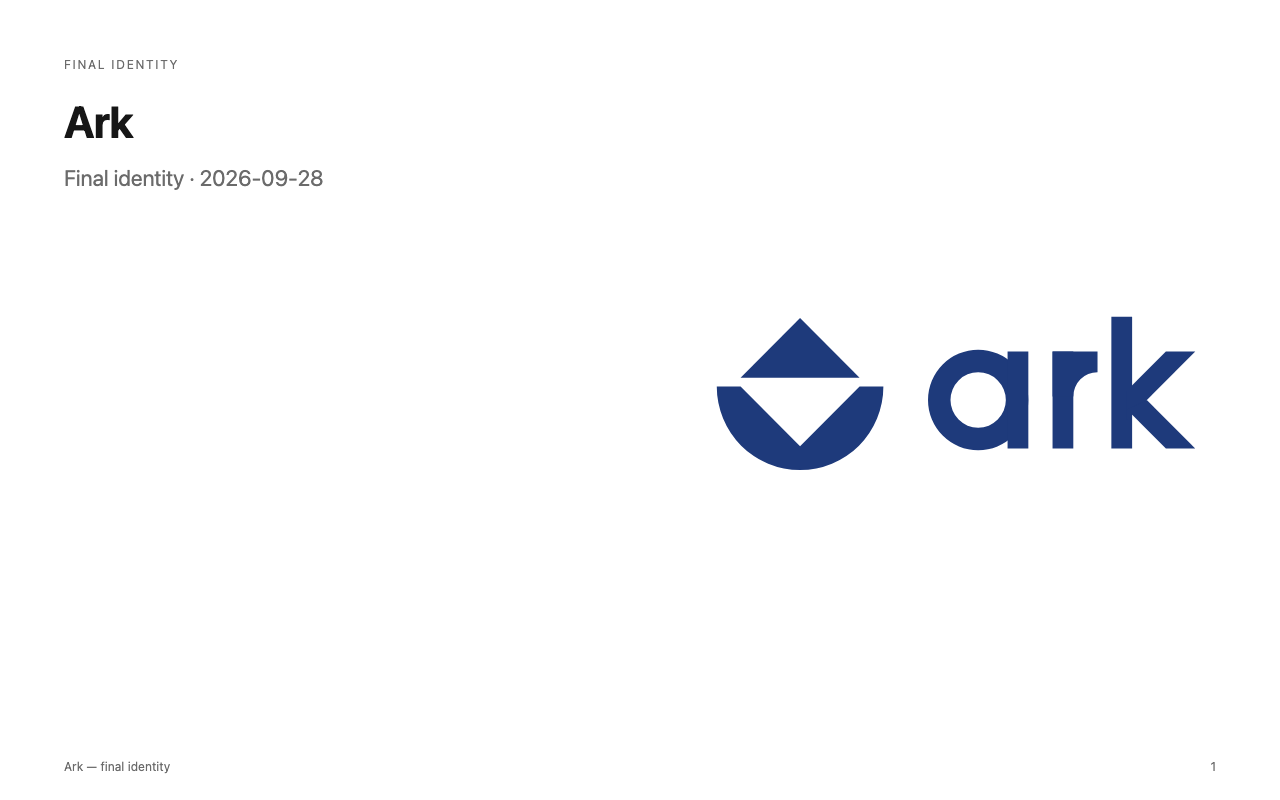
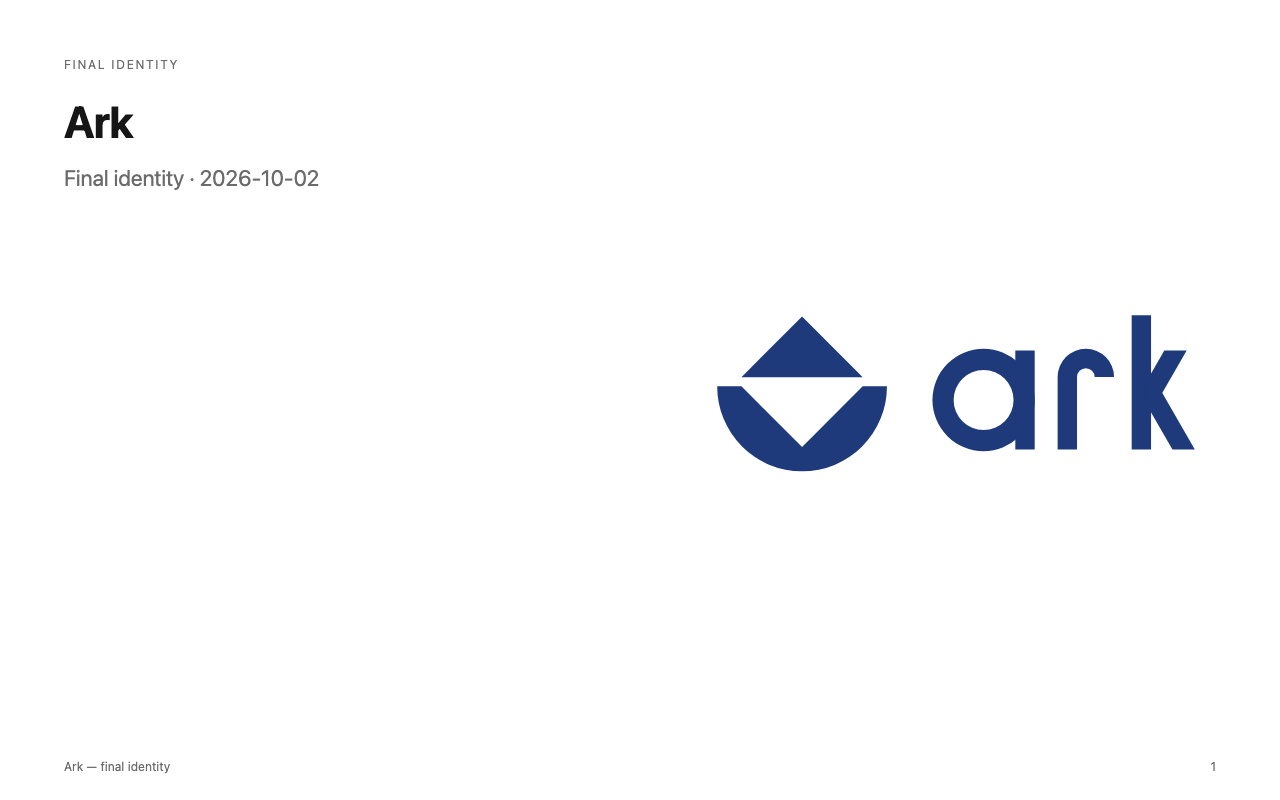
docs(brand): rebuild the presentation board with the new wordmark
Regenerate board/ark-board.html and the slides that embed a lockup
(1, 3 and 4) from board/ark-board.json so the board shows the re-cut
letters. Slides 2 and 5 are unchanged.

The stock terminal mockup prints "ark --version" and "ark search"; the
board replaces those with the two "arkd query oracle" lines as before.
The swap is applied to each slide's HTML before its screenshot, so the
PNGs carry the Ark commands too.

diff --git a/docs/brand/board/ark-board.html b/docs/brand/board/ark-board.html
@@ -73,14 +73,14 @@ ul.rat{padding-left:18px;margin:0}ul.rat li{margin:6px 0}
 img.g{filter:grayscale(1)}img.w{filter:brightness(0) invert(1)}img.k{filter:brightness(0)}
 .adj span{display:inline-block;border:1px solid var(--line);border-radius:20px;padding:4px 14px;margin:0 8px 8px 0;font-size:14px}
 </style></head><body><section class="slide"><div class="kicker">Final identity</div>
-<h1>Ark</h1><p class="idea muted">Final identity · 2026-09-28</p>
[1 lines of base64/hex data omitted]
+<h1>Ark</h1><p class="idea muted">Final identity · 2026-10-02</p>
[1 lines of base64/hex data omitted]
 <p class="idea">A sovereign Cosmos chain that converts its native asset, NOAH, into a family of fiat-tracking currencies, with three funds standing behind them. Trust comes from disclosure and bounded authority, not from a promise of growth.</p><div class="adj"><span>steadfast</span><span>candid</span><span>bounded</span><span>sheltering</span></div>
 <p class="muted" style="margin-top:28px;max-width:860px">Success: reads at 16 px and in 1-bit on a Ledger, holds in one colour, stands apart from blue crypto marks, and carries one idea.</p><div class="foot"><span>Ark — final identity</span><span>2</span></div></section><section class="slide"><div class="kicker">Final design</div><h2>Whole</h2>
 <p class="idea">The peak above the waterline and its reflection in the hull make one diamond: two halves, one whole.</p>
[4 lines of base64/hex data omitted]
 <div class="foot"><span>Ark — final identity</span><span>3</span></div></section><section class="slide"><div class="kicker">Final design · in use</div><h2>Whole</h2>
[2 lines of base64/hex data omitted]
 <p class="idea">Use the horizontal lockup by default, the symbol alone at icon sizes, and the small drawing at 24 px and below.</p>
 <ul class="rat" style="margin-top:30px"><li>Trademark search for the name and the mark</li><li>Proof navy and clay against a physical Pantone guide</li><li>Move the Ledger app glyphs to the new mark</li><li>Choose where the kit lives</li></ul><div class="foot"><span>Ark — final identity</span><span>5</span></div></section></body></html>
